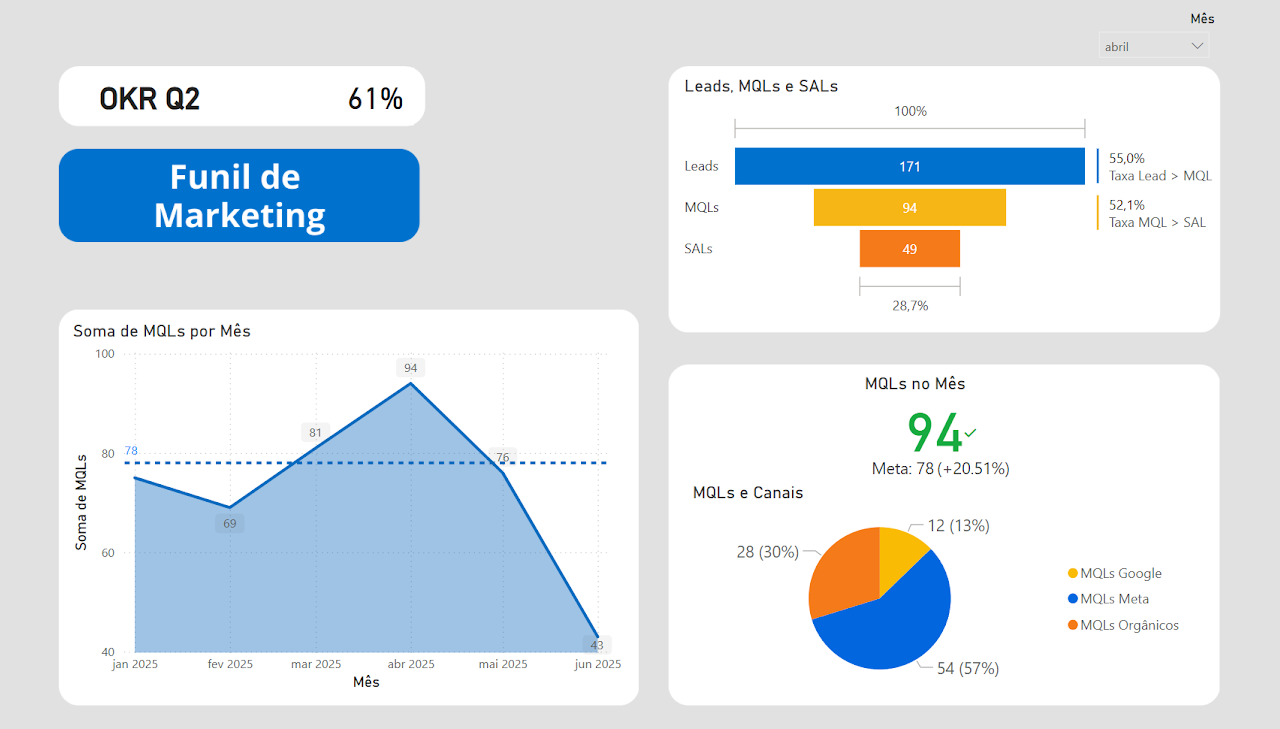
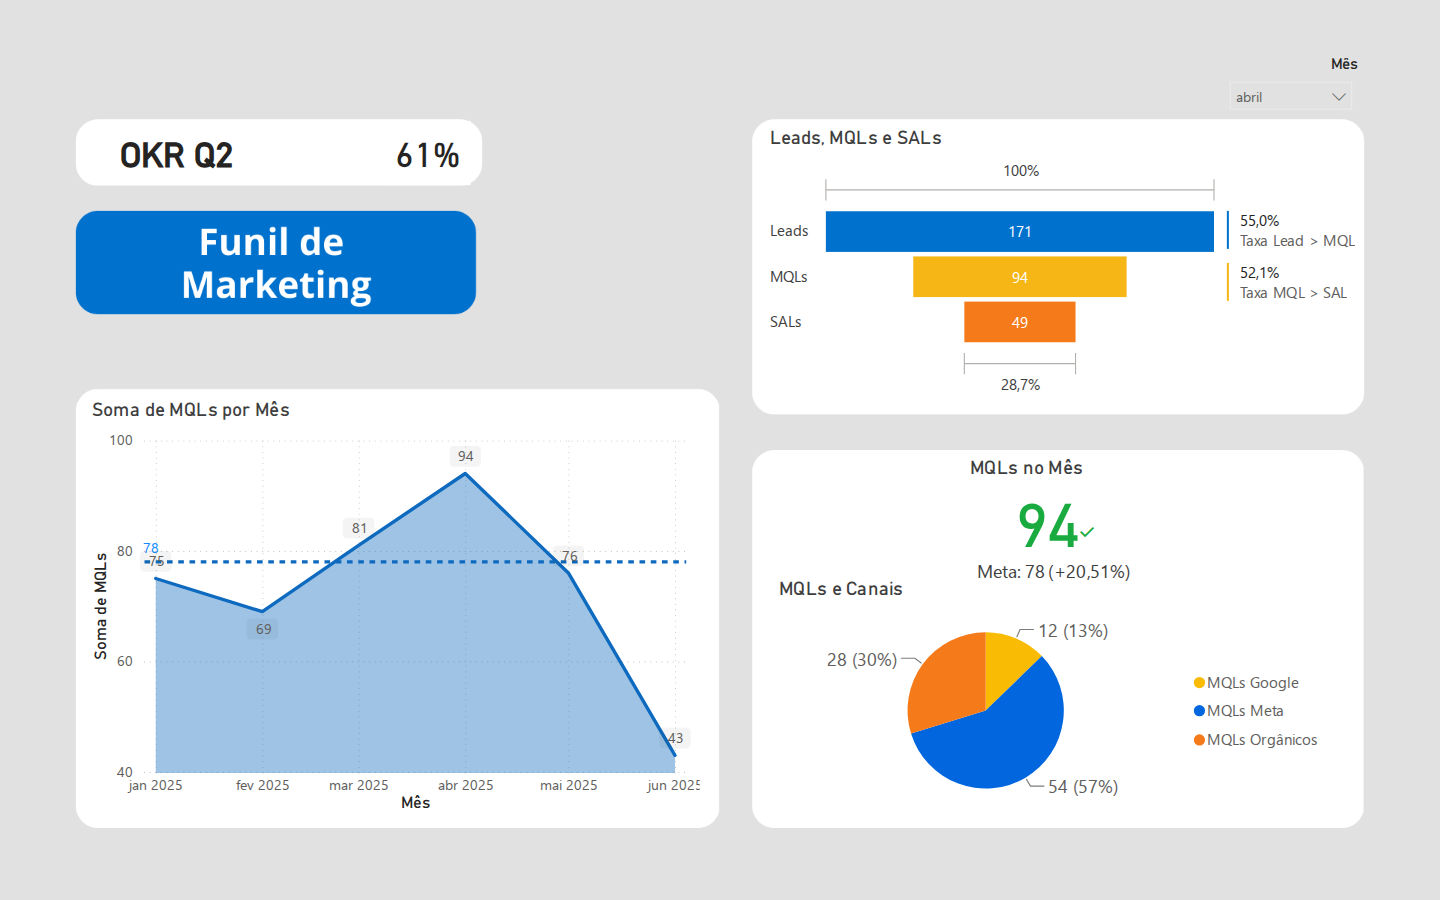
Atualização página Portfólio

diff --git a/projetos.html b/projetos.html
@@ -66,6 +66,26 @@
     </article>
 
     <article class="hb-tile hb-proj hb-proj--flip">
+      <button class="hb-proj-frame" type="button" data-embed="https://app.powerbi.com/view?r=eyJrIjoiNjM3M2IwZDQtN2ZmMy00ZTc4LWI2MzItNjcxMWViYzczOWExIiwidCI6IjY2NmNhYjNiLTg2ZTMtNDRjOS1iZWU3LTA4YmE3NWZhMDk2MCJ9" data-embed-title="Dashboard Marketing v2">
+        <img src="assets/img/dashboard-marketing-v2.png" alt="Prévia do Dashboard Marketing v2" width="1440" height="900" loading="lazy">
+        <span class="hb-proj-hover"><svg class="hb-ic" viewBox="0 0 24 24" aria-hidden="true"><path d="M9 3H5a2 2 0 0 0-2 2v4M15 3h4a2 2 0 0 1 2 2v4M9 21H5a2 2 0 0 1-2-2v-4M15 21h4a2 2 0 0 0 2-2v-4"></path></svg>Exibir em tela cheia</span>
+      </button>
+      <div class="hb-proj-text">
+        <span class="hb-client">Cliente: Intelidata</span>
+        <h3>Dashboard Marketing v2</h3>
+        <p class="hb-s-text">Dashboard desenvolvido para acompanhar os resultados do setor de Marketing de cada produto da empresa ao longo do trimestre. O painel reúne, em dez páginas, o funil de Leads, MQLs e SALs com metas por canal de aquisição, o desempenho das redes sociais, as campanhas de LinkedIn Ads e as visualizações dos sites.</p>
+        <p class="hb-s-text">Também acompanha o andamento dos projetos internos, os leads gerados para os clientes atendidos pelo time e a receita recorrente dos planos de marketing vendidos a parceiros, com o progresso do OKR do trimestre sempre visível no topo.</p>
+        <p class="hb-lead">Como interagir:</p>
+        <ul class="hb-items">
+          <li><svg class="hb-ic hb-ck" viewBox="0 0 24 24" aria-hidden="true"><path d="M5 12.5l4.5 4.5L19 7.5"></path></svg><span>Navegar pelas páginas do relatório</span></li>
+          <li><svg class="hb-ic hb-ck" viewBox="0 0 24 24" aria-hidden="true"><path d="M5 12.5l4.5 4.5L19 7.5"></path></svg><span>Filtrar os indicadores por mês</span></li>
+          <li><svg class="hb-ic hb-ck" viewBox="0 0 24 24" aria-hidden="true"><path d="M5 12.5l4.5 4.5L19 7.5"></path></svg><span>Comparar resultados e metas de cada produto</span></li>
+          <li><svg class="hb-ic hb-ck" viewBox="0 0 24 24" aria-hidden="true"><path d="M5 12.5l4.5 4.5L19 7.5"></path></svg><span>Acompanhar o progresso dos projetos e do OKR do trimestre</span></li>
+        </ul>
+      </div>
+    </article>
+
+    <article class="hb-tile hb-proj">
       <button class="hb-proj-frame" type="button" data-embed="demos/relatorios-revenda/" data-embed-title="Relatórios de Clientes">
         <img src="assets/img/demos/relatorios-revenda.png" alt="Prévia de Relatórios de Clientes" width="1440" height="900" loading="lazy">
         <span class="hb-proj-hover"><svg class="hb-ic" viewBox="0 0 24 24" aria-hidden="true"><path d="M9 3H5a2 2 0 0 0-2 2v4M15 3h4a2 2 0 0 1 2 2v4M9 21H5a2 2 0 0 1-2-2v-4M15 21h4a2 2 0 0 0 2-2v-4"></path></svg>Exibir em tela cheia</span>
@@ -84,7 +104,7 @@
       </div>
     </article>
 
-    <article class="hb-tile hb-proj">
+    <article class="hb-tile hb-proj hb-proj--flip">
       <button class="hb-proj-frame" type="button" data-embed="demos/cronograma-projetos/" data-embed-title="Cronograma de Projetos">
         <img src="assets/img/demos/cronograma-projetos.png" alt="Prévia do Cronograma de Projetos" width="1440" height="900" loading="lazy">
         <span class="hb-proj-hover"><svg class="hb-ic" viewBox="0 0 24 24" aria-hidden="true"><path d="M9 3H5a2 2 0 0 0-2 2v4M15 3h4a2 2 0 0 1 2 2v4M9 21H5a2 2 0 0 1-2-2v-4M15 21h4a2 2 0 0 0 2-2v-4"></path></svg>Exibir em tela cheia</span>
@@ -99,6 +119,25 @@
           <li><svg class="hb-ic hb-ck" viewBox="0 0 24 24" aria-hidden="true"><path d="M5 12.5l4.5 4.5L19 7.5"></path></svg><span>Registrar o progresso de cada objetivo por semana</span></li>
           <li><svg class="hb-ic hb-ck" viewBox="0 0 24 24" aria-hidden="true"><path d="M5 12.5l4.5 4.5L19 7.5"></path></svg><span>Editar os valores diretamente na grade</span></li>
           <li><svg class="hb-ic hb-ck" viewBox="0 0 24 24" aria-hidden="true"><path d="M5 12.5l4.5 4.5L19 7.5"></path></svg><span>Acompanhar os totais calculados automaticamente</span></li>
+        </ul>
+      </div>
+    </article>
+
+    <article class="hb-tile hb-proj">
+      <button class="hb-proj-frame" type="button" data-embed="https://app.powerbi.com/view?r=eyJrIjoiNmViZGEyOTYtYjI0My00NDcyLTgzY2UtYzdhZTVlYWUwMmJiIiwidCI6IjY2NmNhYjNiLTg2ZTMtNDRjOS1iZWU3LTA4YmE3NWZhMDk2MCJ9" data-embed-title="Dashboard de Vendas Lotus">
+        <img src="assets/img/dashboard-vendas-lotus.png" alt="Prévia do Dashboard de Vendas Lotus" width="1440" height="900" loading="lazy">
+        <span class="hb-proj-hover"><svg class="hb-ic" viewBox="0 0 24 24" aria-hidden="true"><path d="M9 3H5a2 2 0 0 0-2 2v4M15 3h4a2 2 0 0 1 2 2v4M9 21H5a2 2 0 0 1-2-2v-4M15 21h4a2 2 0 0 0 2-2v-4"></path></svg>Exibir em tela cheia</span>
+      </button>
+      <div class="hb-proj-text">
+        <span class="hb-client">Projeto de estudo</span>
+        <h3>Dashboard de Vendas Lotus</h3>
+        <p class="hb-s-text">Dashboard de vendas para a Lotus, empresa fictícia com três linhas de produto. A visão geral consolida faturamento, quantidade vendida e número de pessoas vendedoras, com a evolução mensal e anual do faturamento e sua distribuição por região, linha de produto e vendedor.</p>
+        <p class="hb-s-text">Uma segunda página traz o histórico completo de vendas por produto, com quantidade e faturamento de cada item.</p>
+        <p class="hb-lead">Como interagir:</p>
+        <ul class="hb-items">
+          <li><svg class="hb-ic hb-ck" viewBox="0 0 24 24" aria-hidden="true"><path d="M5 12.5l4.5 4.5L19 7.5"></path></svg><span>Filtrar por ano e por região</span></li>
+          <li><svg class="hb-ic hb-ck" viewBox="0 0 24 24" aria-hidden="true"><path d="M5 12.5l4.5 4.5L19 7.5"></path></svg><span>Comparar o faturamento por linha de produto e por vendedor</span></li>
+          <li><svg class="hb-ic hb-ck" viewBox="0 0 24 24" aria-hidden="true"><path d="M5 12.5l4.5 4.5L19 7.5"></path></svg><span>Consultar o histórico de vendas de cada produto</span></li>
         </ul>
       </div>
     </article>
@@ -144,6 +183,24 @@
     </article>
 
     <article class="hb-tile hb-proj hb-proj--flip">
+      <button class="hb-proj-frame" type="button" data-embed="https://app.powerbi.com/view?r=eyJrIjoiZWYxMjk1ZjQtOGRjMC00ZTdiLTg4ZDUtYmIwMzU3ZDc3MGViIiwidCI6IjY2NmNhYjNiLTg2ZTMtNDRjOS1iZWU3LTA4YmE3NWZhMDk2MCJ9" data-embed-title="Dashboard Buscante">
+        <img src="assets/img/dashboard-buscante.png" alt="Prévia do Dashboard Buscante" width="1440" height="900" loading="lazy">
+        <span class="hb-proj-hover"><svg class="hb-ic" viewBox="0 0 24 24" aria-hidden="true"><path d="M9 3H5a2 2 0 0 0-2 2v4M15 3h4a2 2 0 0 1 2 2v4M9 21H5a2 2 0 0 1-2-2v-4M15 21h4a2 2 0 0 0 2-2v-4"></path></svg>Exibir em tela cheia</span>
+      </button>
+      <div class="hb-proj-text">
+        <span class="hb-client">Projeto de estudo</span>
+        <h3>Dashboard Buscante</h3>
+        <p class="hb-s-text">Dashboard para a Buscante, livraria fictícia de títulos raros com venda por assinatura. O relatório é dividido em três páginas com navegação própria: E-commerce, com assinaturas inativas, média de acessos por mês e preço por título; Vendas, com o progresso em relação à meta e a tendência semanal com previsão; e Clientes, com o perfil do público por profissão, idade, canal de contato preferido e cidade.</p>
+        <p class="hb-lead">Como interagir:</p>
+        <ul class="hb-items">
+          <li><svg class="hb-ic hb-ck" viewBox="0 0 24 24" aria-hidden="true"><path d="M5 12.5l4.5 4.5L19 7.5"></path></svg><span>Alternar entre as páginas pelo menu no topo do relatório</span></li>
+          <li><svg class="hb-ic hb-ck" viewBox="0 0 24 24" aria-hidden="true"><path d="M5 12.5l4.5 4.5L19 7.5"></path></svg><span>Filtrar os dados por cidade ou intervalo de semanas</span></li>
+          <li><svg class="hb-ic hb-ck" viewBox="0 0 24 24" aria-hidden="true"><path d="M5 12.5l4.5 4.5L19 7.5"></path></svg><span>Explorar a distribuição dos clientes no mapa</span></li>
+        </ul>
+      </div>
+    </article>
+
+    <article class="hb-tile hb-proj">
       <button class="hb-proj-frame" type="button" data-embed="demos/tv/" data-embed-title="Dashboard TV">
         <img src="assets/img/demos/tv.png" alt="Prévia do Dashboard TV" width="1440" height="900" loading="lazy">
         <span class="hb-proj-hover"><svg class="hb-ic" viewBox="0 0 24 24" aria-hidden="true"><path d="M9 3H5a2 2 0 0 0-2 2v4M15 3h4a2 2 0 0 1 2 2v4M9 21H5a2 2 0 0 1-2-2v-4M15 21h4a2 2 0 0 0 2-2v-4"></path></svg>Exibir em tela cheia</span>
@@ -162,7 +219,7 @@
       </div>
     </article>
 
-    <article class="hb-tile hb-proj">
+    <article class="hb-tile hb-proj hb-proj--flip">
       <button class="hb-proj-frame" type="button" data-embed="demos/calendario-clientes/" data-embed-title="Calendário de Clientes">
         <img src="assets/img/demos/calendario-clientes.png" alt="Prévia do Calendário de Clientes" width="1440" height="900" loading="lazy">
         <span class="hb-proj-hover"><svg class="hb-ic" viewBox="0 0 24 24" aria-hidden="true"><path d="M9 3H5a2 2 0 0 0-2 2v4M15 3h4a2 2 0 0 1 2 2v4M9 21H5a2 2 0 0 1-2-2v-4M15 21h4a2 2 0 0 0 2-2v-4"></path></svg>Exibir em tela cheia</span>
@@ -182,9 +239,9 @@
       </div>
     </article>
 
-    <article class="hb-tile hb-proj hb-proj--flip">
+    <article class="hb-tile hb-proj">
       <button class="hb-proj-frame" type="button" data-embed="https://app.powerbi.com/view?r=eyJrIjoiZDBlMGIxMWYtMmViNC00MTZlLWFlMzQtM2FiZWM0YWI2OGZlIiwidCI6IjY2NmNhYjNiLTg2ZTMtNDRjOS1iZWU3LTA4YmE3NWZhMDk2MCJ9" data-embed-title="Dashboard Lognex">
-        <img src="assets/img/dashboard-lognex.png" alt="Prévia do Dashboard Lognex" width="1280" height="711" loading="lazy">
+        <img src="assets/img/dashboard-lognex.png" alt="Prévia do Dashboard Lognex" width="1440" height="900" loading="lazy">
         <span class="hb-proj-hover"><svg class="hb-ic" viewBox="0 0 24 24" aria-hidden="true"><path d="M9 3H5a2 2 0 0 0-2 2v4M15 3h4a2 2 0 0 1 2 2v4M9 21H5a2 2 0 0 1-2-2v-4M15 21h4a2 2 0 0 0 2-2v-4"></path></svg>Exibir em tela cheia</span>
       </button>
       <div class="hb-proj-text">
@@ -201,14 +258,14 @@
       </div>
     </article>
 
-    <article class="hb-tile hb-proj">
-      <button class="hb-proj-frame" type="button" data-embed="https://app.powerbi.com/view?r=eyJrIjoiY2E2MDNkZTctYjdkNy00OTgyLTkyZDgtZThkZDE0NjFiOGZjIiwidCI6IjY2NmNhYjNiLTg2ZTMtNDRjOS1iZWU3LTA4YmE3NWZhMDk2MCJ9" data-embed-title="Dashboard Intelidata">
-        <img src="assets/img/dashboard-intelidata.png" alt="Prévia do Dashboard Intelidata" width="1280" height="729" loading="lazy">
+    <article class="hb-tile hb-proj hb-proj--flip">
+      <button class="hb-proj-frame" type="button" data-embed="https://app.powerbi.com/view?r=eyJrIjoiY2E2MDNkZTctYjdkNy00OTgyLTkyZDgtZThkZDE0NjFiOGZjIiwidCI6IjY2NmNhYjNiLTg2ZTMtNDRjOS1iZWU3LTA4YmE3NWZhMDk2MCJ9" data-embed-title="Dashboard Marketing">
+        <img src="assets/img/dashboard-intelidata.png" alt="Prévia do Dashboard Marketing" width="1440" height="900" loading="lazy">
         <span class="hb-proj-hover"><svg class="hb-ic" viewBox="0 0 24 24" aria-hidden="true"><path d="M9 3H5a2 2 0 0 0-2 2v4M15 3h4a2 2 0 0 1 2 2v4M9 21H5a2 2 0 0 1-2-2v-4M15 21h4a2 2 0 0 0 2-2v-4"></path></svg>Exibir em tela cheia</span>
       </button>
       <div class="hb-proj-text">
         <span class="hb-client">Cliente: Intelidata</span>
-        <h3>Dashboard Intelidata</h3>
+        <h3>Dashboard Marketing</h3>
         <p class="hb-s-text">Dashboard desenvolvido para centralizar as principais métricas do setor de Marketing, reunindo informações que anteriormente eram organizadas em diferentes planilhas. O painel consolida os indicadores em um único ambiente e permite acompanhar sua evolução ao longo do tempo, facilitando a tomada de decisão da gestão.</p>
         <p class="hb-lead">Como interagir:</p>
         <ul class="hb-items">

diff --git a/demos/financeiro-revendas/index.html b/demos/financeiro-revendas/index.html
@@ -4,8 +4,8 @@
 <meta charset="UTF-8" />
 <meta name="viewport" content="width=device-width, initial-scale=1.0" />
 <meta name="robots" content="noindex,nofollow" />
-<title>Financeiro Revendas · Intelidata</title>
-<link rel="icon" href="favicon.png" />
+<title>Financeiro Clientes · Vetor</title>
+<link rel="icon" href="favicon-vetor.png" />
 <script src="https://cdn.jsdelivr.net/npm/chart.js@4.4.3/dist/chart.umd.min.js"></script>
 <style>
   :root{
@@ -117,9 +117,9 @@
 <body>
 <div class="wrap">
   <header class="top">
-    <img src="intelidata.png" alt="Intelidata" onerror="this.style.display='none'"/>
+    <img src="logo-vetor.png" alt="Vetor" onerror="this.style.display='none'"/>
     <div class="title">
-      <h1>Financeiro Revendas</h1>
+      <h1>Financeiro Clientes</h1>
       <p>Recorrência, previsão anual e contratos de Serviços de Marketing</p>
     </div>
     <div class="spacer"></div>
